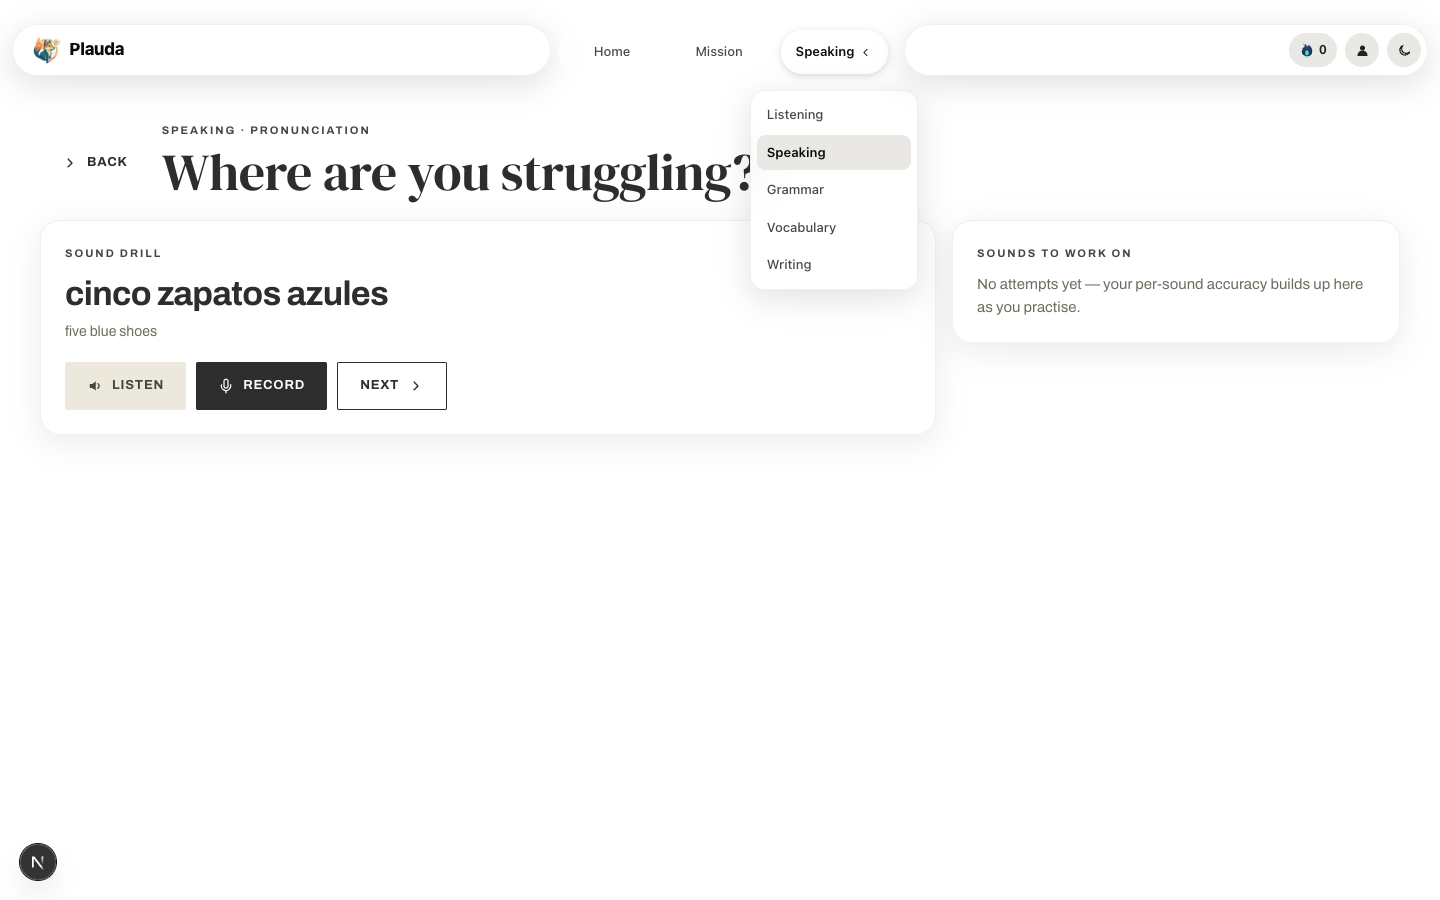
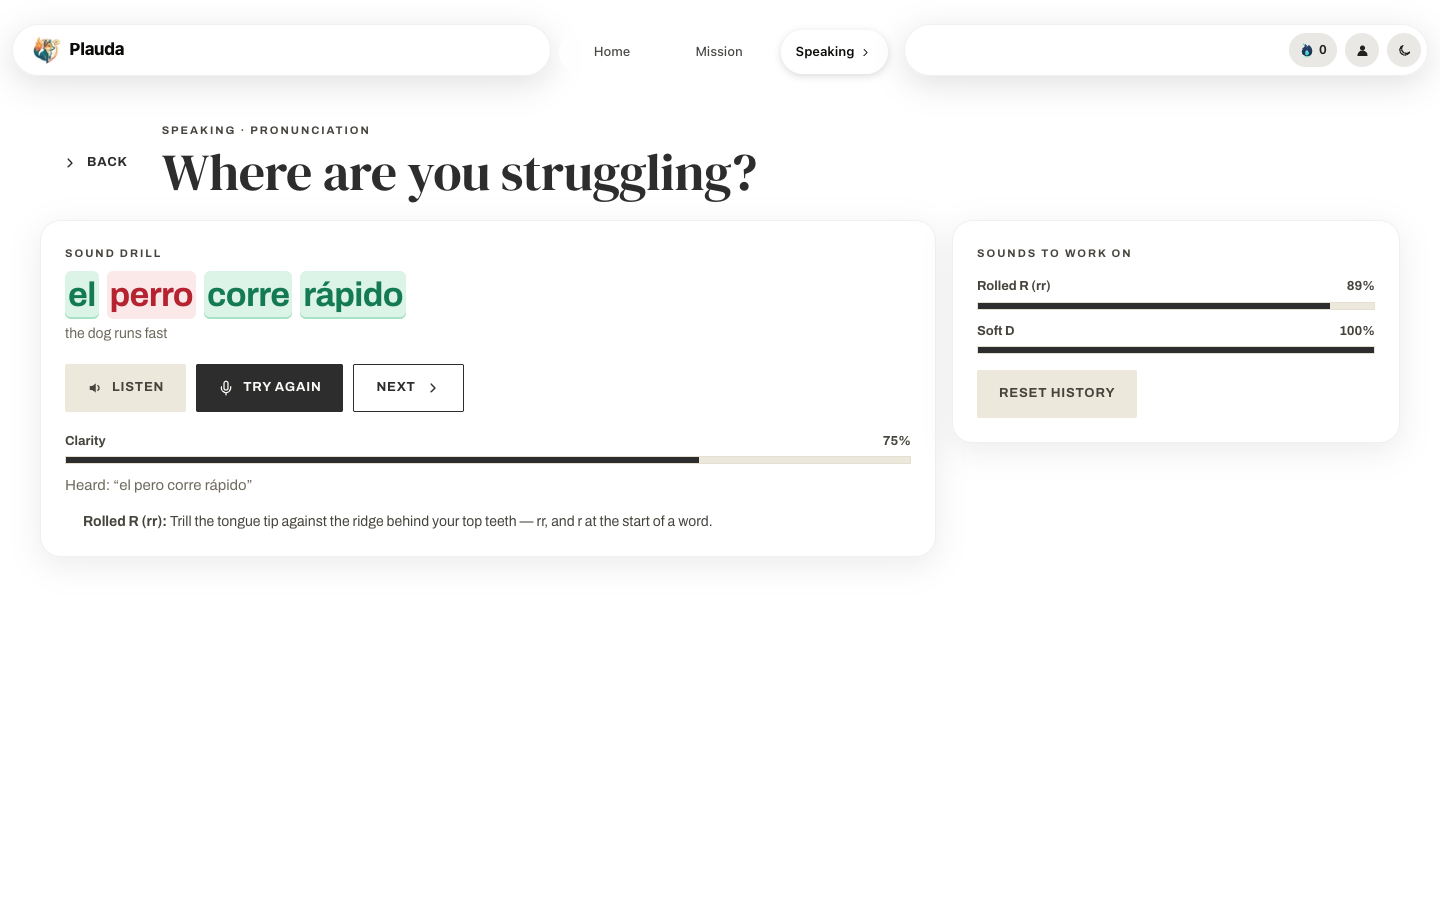
Adjusting the Readme to suit the goal of the project

diff --git a/frontend/src/components/PronunciationPractice.tsx b/frontend/src/components/PronunciationPractice.tsx
@@ -100,7 +100,10 @@ function similarity(a: string, b: string): number {
 type WordScore = { word: string; good: boolean };
 type Result = { words: WordScore[]; heard: string; score: number };
 
-const GOOD_THRESHOLD = 0.75;
+// One wrong letter in a short word (pero vs perro = 0.8) must count as a
+// miss — those minimal pairs are exactly the sounds being trained — while
+// longer words still tolerate a single recogniser slip (8 letters, 1 edit = 0.875).
+const GOOD_THRESHOLD = 0.85;
 
 function scoreAttempt(target: string, alternatives: string[]): Result {
   const targetWords = target.split(/\s+/).filter(Boolean);

diff --git a/README.md b/README.md
@@ -1,32 +1,59 @@
 # Plauda
 
-**Learn Spanish by living through real situations.** Plauda (developed under the working name *SpanishUp*) is a full-stack language-learning app. Every unit is a *mission*, such as ordering coffee, checking into a hotel or negotiating a contract. Inside a mission you listen, learn the words, practise the grammar, talk to an AI character, write, and finish with an unscripted conversation. Spaced repetition (FSRS-4.5) brings the words and grammar back at the right time.
+**A Spanish tutor you talk to.** Plauda (developed under the working name *SpanishUp*) is a full-stack language-learning app built around **spoken conversation**. Learners talk out loud with AI characters in real situations, such as ordering at a café, checking into a hotel or negotiating a contract. They get grammar corrections on what they said, translations of words they don't know, and feedback on their pronunciation, one word at a time. Vocabulary, grammar, listening and writing practice all feed into those conversations, and FSRS-4.5 spaced repetition brings the material back at the right time.
 
-> **Project status: archived.** Development has finished and the repository is kept as a portfolio piece. The app is complete and runs locally with one command, but no hosted version is maintained. Issues and PRs are not monitored.
+> **Project status: archived.** Development has finished and the repository is kept as a portfolio piece. The app is complete and runs locally with one command, but no hosted version is maintained.
 
-![Missions](.github/assets/missions.png)
+![Hands-free voice conversation with an AI waiter](.github/assets/speaking-conversation.png)
 
-| | |
+*A real session: the learner speaks hands-free, the mic sends each turn automatically when they pause, and the waiter's reply streams in. The mistake in "La tortilla es muy rico" is corrected inline, the scene's goals tick off on the right, and hovering any unknown word shows its translation.*
+
+## Speech: the core of the app
+
+### Hands-free voice conversation
+
+- The learner taps the mic once and then simply talks. The Web Speech API (`es-ES`) transcribes continuously, a pause of about 1.4 seconds counts as end of turn, and the turn is sent with no button press.
+- The mic is muted while the AI character speaks, so the app never transcribes its own voice. It re-arms when the reply finishes. Chrome's forced session restarts and its ~60-second session limit are absorbed without losing what the learner already said.
+- Replies are streamed token by token over Server-Sent Events, so the character starts answering immediately. They are spoken with ElevenLabs voices when a key is set, and with the browser's own voice otherwise.
+- Every turn is evaluated as structured output alongside the reply: whether the learner was understood, a corrected version of what they said, an English translation, and which of the scene's goals have now been met.
+- Words in the character's replies that aren't in the learner's deck are underlined. Hovering one shows its translation.
+
+### A 7-stage speaking ladder in every mission
+
+Each mission generates its own role-play. It moves from fully supported to unscripted: *repeat → choose → fill the gaps → say it from an English cue → short live exchange → branching conversation → free conversation*. At the end comes the **Final Challenge**, a native-speed conversation with no hints. Early stages accept only the target line. Later stages accept any correct way of saying it, because the goal is to communicate rather than recite.
+
+### Pronunciation practice
+
+![Per-word pronunciation feedback](.github/assets/pronunciation.png)
+
+- Each attempt is scored word by word against the target phrase, using the closest of up to five recogniser hypotheses. Short-word near-misses such as *pero* for *perro* are deliberately counted as errors, because those minimal pairs are the sounds being trained.
+- Misses are charged to the sounds they contain (rolled R, tapped R, J/soft G, Ñ, LL/Y, Z/soft C, B/V, soft D, pure vowels). That builds a running "sounds to work on" profile, and the drills that come up next are steered toward the weakest one.
+- Every score is logged to the backend's skill statistics, so pronunciation shows up on the learner's dashboard.
+
+### How a spoken turn flows
+
+```
+mic ─► Web Speech API (es-ES, continuous) ─► ~1.4 s silence ─► POST /api/speaking/turn
+                                                                  │
+          FastAPI ─► LLM (Claude Haiku / Mistral) ◄────────────────┘
+             │  streams reply tokens over SSE, then a final JSON event:
+             │  { understood, correction, npc_reply_en, objectives_met }
+             ▼
+browser renders tokens live ─► TTS (ElevenLabs, or browser voice) ─► mic re-arms
+             └─► record_attempt() ─► user_skill_stats ─► dashboard
+```
+
+## Everything around it
+
+| Missions | A mission's path |
 |---|---|
-| ![Home dashboard](.github/assets/home.png) | ![Mission path](.github/assets/mission-detail.png) |
-| ![Grammar syllabus](.github/assets/grammar.png) | ![Listening](.github/assets/listening.png) |
-| ![Pronunciation practice](.github/assets/pronunciation.png) | |
+| ![Missions](.github/assets/missions.png) | ![Mission path](.github/assets/mission-detail.png) |
 
-## Features
-
-**Missions (the core loop)**
-- 30 scenario missions, A1 to B2 (café, airport, doctor, pharmacy, hotel, job interview, banking, debates, hypotheticals…), each with 12 target words, 3 grammar patterns and an AI speaking scene.
-- Each mission is a ladder: *Context Preview → Listening → Vocabulary I → Grammar → Vocabulary II → Speaking → Writing → Feedback → Vocabulary Recap → Final Challenge*. The learner's onboarding skill priority moves their preferred step to the front.
-- When a mission is first opened, an LLM pipeline fills in its vocabulary (chunks, synonyms, gender, IPA, example sentences), a 7-stage speaking script and a context preview. Mistral is tried first and Claude Haiku is the fallback. The results are cached in Postgres.
-- Missions are recommended from the learner's ranked goals (travel, work, academic…).
-
-**Skills**
-- **Vocabulary**: a 5-level trainer (recognition → picture + scrambled letters → recall → cloze → free sentence graded by AI), scheduled with FSRS.
-- **Grammar**: a 44-topic syllabus from A1 to C1. Every topic is a 7-stage lesson: notice, rule, structured input, controlled practice, mixed practice, AI-graded free production, and spaced review on days 1/3/7/14.
-- **Listening**: checkpointed narrative stories (A1 to C1, including a 10-minute two-voice B1 story) that pause to ask comprehension questions. There is also a **podcast player**: import a YouTube playlist, episodes download in the background, transcribe on demand with faster-whisper, follow along in a timestamped transcript, and tap any word to translate it and save it to your deck.
-- **Speaking**: free AI conversation with scenario goals, streamed token by token over SSE, with optional ElevenLabs voice. **Pronunciation practice** scores each word through the Web Speech API and keeps a per-sound record (rr, j, ñ, ll, z/c…) that steers which drills come up next.
-- **Writing**: guided writing lessons and an AI writing coach.
-- **Dashboard**: streaks, XP trend, retention rate, consistency, study time of day, per-skill accuracy, weakest grammar structure, problem sounds and more.
+- **30 missions from A1 to B2.** Each has 12 target words, 3 grammar patterns and an AI speaking scene, and walks through *Context Preview → Listening → Vocabulary → Grammar → Vocabulary → Speaking → Writing → Feedback → Recap → Final Challenge*. When a mission is first opened, an LLM pipeline enriches its vocabulary and writes its speaking script and context preview. Mistral is tried first and Claude Haiku is the fallback, and the results are cached in Postgres.
+- **Vocabulary.** A 5-level trainer (recognition → picture + scrambled letters → recall → cloze → free sentence graded by AI), scheduled with FSRS.
+- **Grammar.** A 44-topic syllabus from A1 to C1. Every topic is a 7-stage lesson that ends in AI-graded free production and spaced review.
+- **Listening.** Checkpointed stories that pause to ask comprehension questions, plus a podcast player: import a YouTube playlist, transcribe episodes with faster-whisper, follow along in a timestamped transcript, and tap any word to save it to your deck.
+- **Writing and dashboard.** Guided writing with an AI coach, and a dashboard covering streaks, retention, XP trend, per-skill accuracy and problem sounds.
 
 ## Architecture
 
@@ -146,7 +173,7 @@ The `CD` GitHub workflow is manual-only now. It builds images to GHCR and can ro
 
 ## Known limitations
 
-- Pronunciation scoring uses the browser's speech recogniser, so it works in Chrome, Edge and Safari but not Firefox. It measures intelligibility, not phoneme-level accuracy.
+- Voice input relies on the browser's speech recogniser, so the voice features work in Chrome, Edge and Safari. Other browsers fall back to a text box. Pronunciation scoring checks whether each word came through clearly, not phoneme-level accuracy.
 - Per-sound pronunciation history and grammar-lesson progress are kept in `localStorage`, so they don't follow a learner across devices.
 - The globe view's optional 3D city layer is switched off because the Kenney building models it uses are not bundled.
 - There is no automated test suite. Quality checks are lint and type checks in CI, plus manual end-to-end runs.
